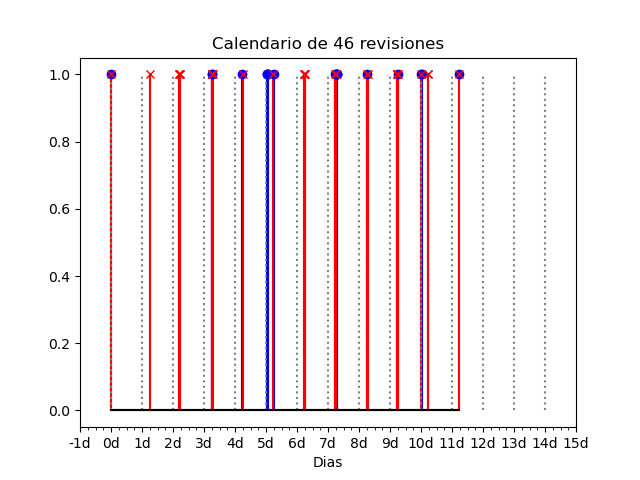
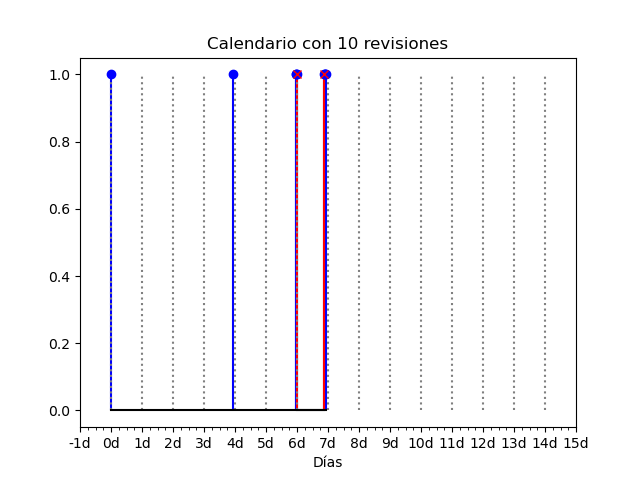
Main de SRGA, figuras y otros
- Cambio de parametros en el main SRGA
- Nuevas figuras generadas
- Cambios en parametros de los scripts de solapamientos

Changed region(s): [[0.3125, 0.0625, 0.7188, 0.875], [0.2188, 0.1562, 0.2812, 0.1875], [0.1562, 0.1562, 0.1875, 0.1875]]

diff --git a/SRS/solapamiento_srga.py b/SRS/solapamiento_srga.py
@@ -1,0 +1,86 @@
+import numpy as np
+import matplotlib.pyplot as plt
+from matplotlib.ticker import (MultipleLocator, FuncFormatter, AutoMinorLocator)
+
+from tqdm import tqdm
+from utils import graficar, integral_acumulada, plotLogisticaOpt, simil
+from srs import SRS, SRGA
+
+def main():
+ 
+    # Cargamos datos
+    m_t = np.load('SRS/data/times.npy')
+    m_c = np.load('SRS/data/correct.npy')
+    m_s = np.load('SRS/data/seen.npy')
+    m_d = np.load('SRS/data/lexemes_dificulty.npy')
+    lens = np.load('SRS/data/len_schedule.npy')
+    lens = lens.astype(int)
+
+    ### Datos fijos ###
+    sched = 800
+    res = 1000 # resolucion
+    n = lens[sched]
+    ts = m_t[sched,:n]
+    cs = m_c[sched,:n]
+    ss = m_s[sched,:n]
+
+    sigma = 30 # en minutos
+
+    # Relacionados a SRS
+    nvent = 5
+    phi = np.flip(np.linspace(0.10, 0.20, num=nvent))
+    psi = np.flip(-np.linspace(0.20, 0.40, num=nvent))
+    a = 0.4
+    delta = 1
+    umbral = 0.8
+    sigma = 30 # en minutos
+
+    # Parametros (usan variables definidas arriba)
+    srga_kwargs = {
+        'alfa0': a,
+        'phi0': phi,
+        'psi0': psi,
+        'umbral': umbral,
+    }
+
+    # Inicizalizamos clase
+    SRGA.init_class(lens, m_t, m_c, m_s, m_d, res=res, sigma=sigma) # Sigma en minutos
+    srga = SRGA(**srga_kwargs)
+
+    # Cargamos los datos de cada schedule
+    # pylint: disable=unsubscriptable-object, unsupported-assignment-operation
+    acum_cs = SRGA.m_acum_cs[sched]
+    acum_ss = SRGA.m_acum_ss[sched]
+
+    # Graficas
+    _fig, axs = plt.subplots(2,1)
+    axs[0].set_title('Similitud para un calendario de 10 y 30 revisiones')
+    axs[1].set_xlabel('Días')
+
+    #Primer ejemplo
+    ult_rev_1 = 10
+
+    #Similitud
+    (similitud_1, ts_srga_1) = simil(ts[0:ult_rev_1], sched, srga, k=1/(3600*24))
+
+    graficar(axs[0], ts, cs, ss, ult_rev_1+1, dens=None, accum=None)
+    axs[0].vlines(ts_srga_1[1:], ymin=0, ymax=1, color='g')
+
+    print(f"similitud con {ult_rev_1} revisiones: {similitud_1}")
+
+
+    #Segundo ejemplo
+    ult_rev_2 = 30
+
+    #Similitud
+    (similitud_2, ts_srga_2) = simil(ts[0:ult_rev_2+1], sched, srga, k=1/(3600*24))
+
+    graficar(axs[1], ts, cs, ss, ult_rev_2+1, dens=None, accum=None)
+    axs[1].vlines(ts_srga_2[1:], ymin=0, ymax=1, color='g')
+
+    print(f"similitud con {ult_rev_2} revisiones: {similitud_2}")
+
+    plt.show()
+
+if __name__ == "__main__":
+    main()

diff --git a/SRS/solapamiento_sm2.py b/SRS/solapamiento_sm2.py
@@ -3,7 +3,7 @@ import matplotlib.pyplot as plt
 from matplotlib.ticker import (MultipleLocator, FuncFormatter, AutoMinorLocator)
 
 from tqdm import tqdm
-from utils import graficar, integral_acumulada, plotLogisticaOpt
+from utils import graficar, integral_acumulada, plotLogisticaOpt, simil
 from srs import SRS, SM2
 
 def main():
@@ -18,13 +18,10 @@ def main():
 
     ### Datos fijos ###
     sched = 800
-    res = 1000 # resolucion
     n = lens[sched]
     ts = m_t[sched,:n]
     cs = m_c[sched,:n]
     ss = m_s[sched,:n]
-
-    sigma = 30 # en minutos
 
     # Parametros (usan variables definidas arriba)
     sm2_kwargs = {
@@ -34,28 +31,24 @@ def main():
     }
 
     # Inicizalizamos clase
-    SM2.init_class(lens, m_t, m_c, m_s, m_d) # Sigma en minutos
+    SM2.init_class(lens, m_t, m_c, m_s, m_d)
     sm2 = SM2(**sm2_kwargs)
-
 
     ult_rev = 10
     # Calculamos tiempo para cierta revision
-    ts_sm2 = np.zeros(ts.size)
-    for i, t in enumerate(ts):
-        (ts_sm2[i], _p) = sm2.prox_revision(sched, t)
+    (similitud, ts_sm2) = simil(ts[0:ult_rev+1], sched, sm2, k=1/(3600*24))
 
     # Graficas
-    _fig, axs = plt.subplots(2,1)
+    _fig, axs = plt.subplots(1,1)
 
     #----- Format --------------
-    seg_dia = 24 * 60 * 60
-
-    graficar(axs[0], ts, cs, ss, ult_rev+1, dens=None, accum=None)
+    graficar(axs, ts, cs, ss, ult_rev+1, dens=None, accum=None)
     
-    axs[1].set_ylim(0, 1.1)
-    axs[1].xaxis.set_major_locator(MultipleLocator(seg_dia))
-    axs[1].xaxis.set_major_formatter(FuncFormatter(lambda x,_p: str(int(x/seg_dia))+'d'))
-    axs[1].vlines(ts_sm2, ymin=0, ymax=1, color='g')
+    axs.set_title('Calendario real y recomendaciones de SM2')
+    axs.set_xlabel('Días')
+    axs.vlines(ts_sm2[1:], ymin=0, ymax=1, color='g')
+
+    print(ts_sm2)
 
     plt.show()
 
